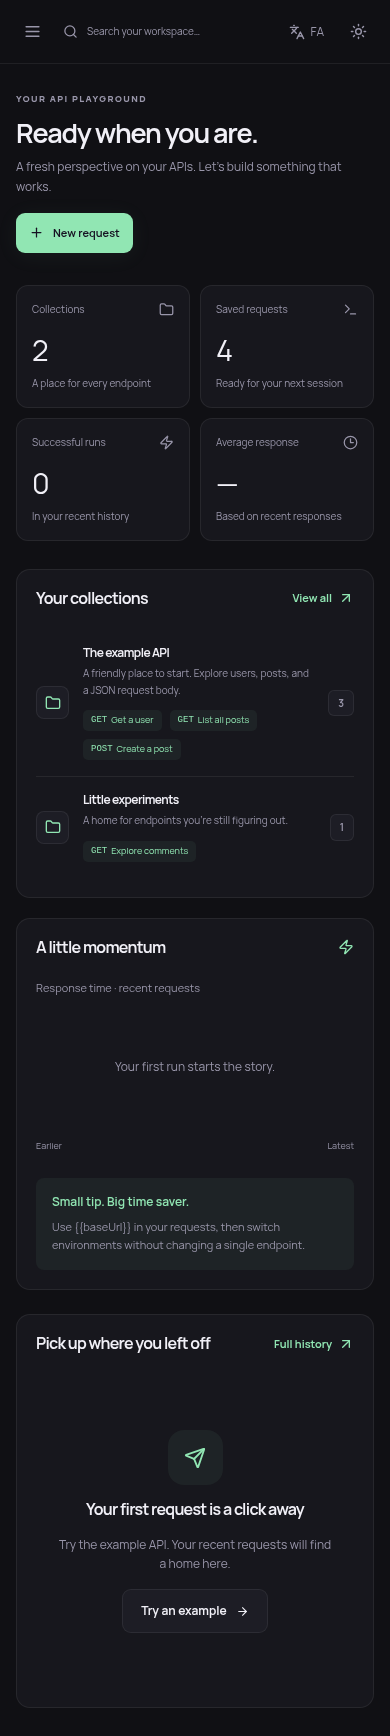
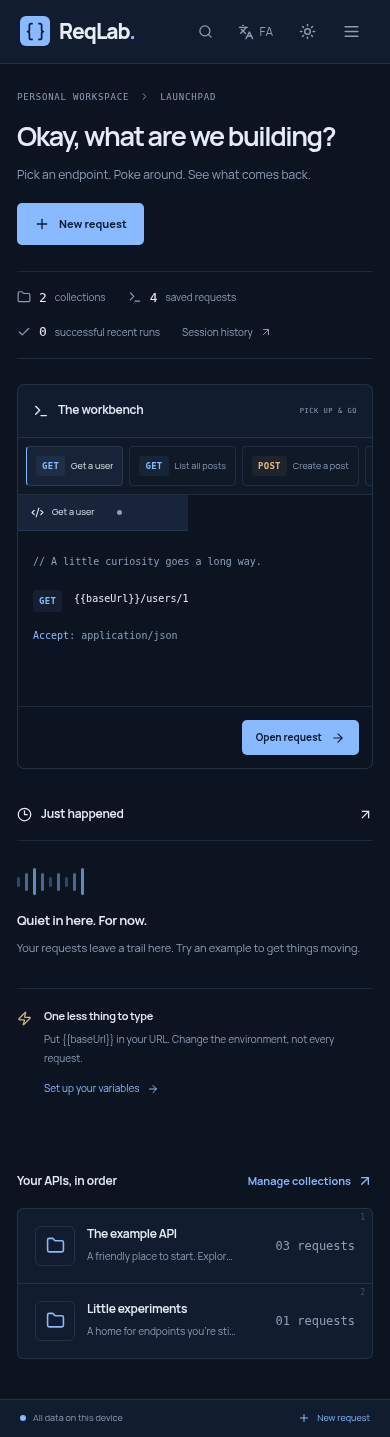
docs: refresh workbench screenshots and design validation

diff --git a/docs/VALIDATION.md b/docs/VALIDATION.md
@@ -9,9 +9,13 @@ Verified on Node.js 24.22.1 with npm 11.9.0 and system Chromium.
 | Strict TypeScript / Next route types | Passed              |
 | Production build                     | Passed              |
 | Vitest                               | 8 passed            |
-| Playwright                           | 6 passed            |
+| Playwright                           | 7 passed            |
 | Prettier                             | Passed              |
 
 Browser tests exercised the production server in this environment. The Playwright configuration can also start a development server for CI or local use. Screenshots in this folder's `screenshots` directory were captured from the running product, including Persian/RTL, light theme, desktop, and mobile views.
 
 The GitHub Actions workflow is committed; its remote run status has not been verified because access to `api.github.com` is blocked by the environment network policy. Git pushes to `main` are supported separately. The GitHub Projects script passed syntax and dry-run checks, but its remote preflight returned `Forbidden`; no remote Project creation is claimed. Enable the saved API network rule and retry with usable Projects authentication.
+
+## Design refresh
+
+The landing and dashboard were redesigned with independent visual identities. Confirmed 48 combined landing/dashboard layouts across English/Persian, light/dark, and 360/768/1440 px widths without document overflow. The new screenshots are generated with explicit stored preferences so light/dark filenames remain accurate regardless of each app’s defaults. See [Design](DESIGN.md) for the product-specific decisions.

diff --git a/docs/DESIGN.md b/docs/DESIGN.md
@@ -1,0 +1,7 @@
+# A workbench for figuring things out
+
+ReqLab uses navy surfaces, blue actions, monospace endpoint details, fine grid lines, and compact corners. The dashboard is a launchpad: saved endpoints on the left, a selectable request preview in the middle, and recent activity to the right. Collections are organized as rows rather than decorative summary cards.
+
+Desktop navigation is horizontal, with a persistent environment selector. Mobile exposes navigation through an accessible expandable menu and scrolls the endpoint selector horizontally. The landing page presents an interactive GET/POST example beside the headline, followed by a workflow strip and practical feature details.
+
+The independent `identity.css` layer sits between component styles and Tailwind utilities. Light mode, Persian/RTL, request cancellation, history, and local persistence remain supported. Toolbar-aware scroll margins keep focused controls usable beneath the header.

diff --git a/README.md b/README.md
@@ -6,7 +6,7 @@
 
 A local-first API testing client with collections, environments, and clear, inspectable responses.
 
-[Features](#features) · [Getting started](#getting-started) · [Architecture](docs/ARCHITECTURE.md) · [فارسی](docs/README.fa.md)
+[Features](#features) · [Getting started](#getting-started) · [Design](docs/DESIGN.md) · [Architecture](docs/ARCHITECTURE.md) · [فارسی](docs/README.fa.md)
 
 ![Next.js](https://img.shields.io/badge/Next.js-16-17171d?logo=nextdotjs) ![TypeScript](https://img.shields.io/badge/TypeScript-strict-3178C6?logo=typescript) ![Tailwind CSS](https://img.shields.io/badge/Tailwind-4-38bdf8?logo=tailwindcss)
 
